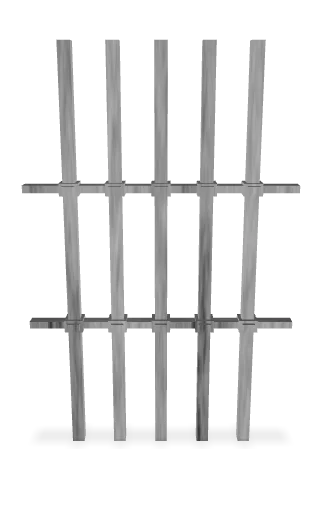
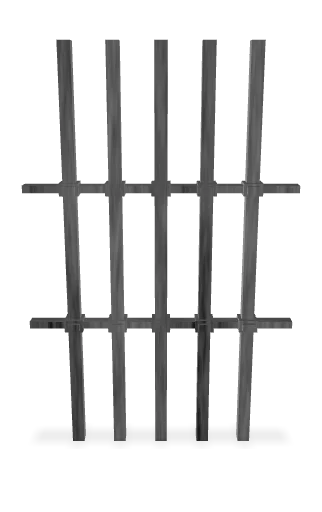
update

Changed region(s): [[0.0621, 0.0625, 0.9317, 0.875]]

diff --git a/index.html b/index.html
@@ -1,7 +1,7 @@
 <!doctype html>
 <html lang="en">
   <head>
-    <title>Barreaux Fenetre AR</title>
+    <title>&lt;model-viewer&gt; template</title>
     <meta charset="utf-8">
     <meta name="description" content="&lt;model-viewer&gt; template">
     <meta name="viewport" content="width=device-width, initial-scale=1">
@@ -11,7 +11,7 @@
   </head>
   <body>
     <!-- <model-viewer> HTML element -->
-    <model-viewer bounds="tight" src="barreaux_fenetre_final.glb" ar ar-modes="webxr scene-viewer quick-look" camera-controls environment-image="neutral" poster="poster.webp" shadow-intensity="1">
+    <model-viewer bounds="tight" src="barreaux_fenetre_final.glb" ar ar-modes="webxr scene-viewer quick-look" camera-controls poster="poster.webp" shadow-intensity="1">
       <div class="progress-bar hide" slot="progress-bar">
           <div class="update-bar"></div>
       </div>
